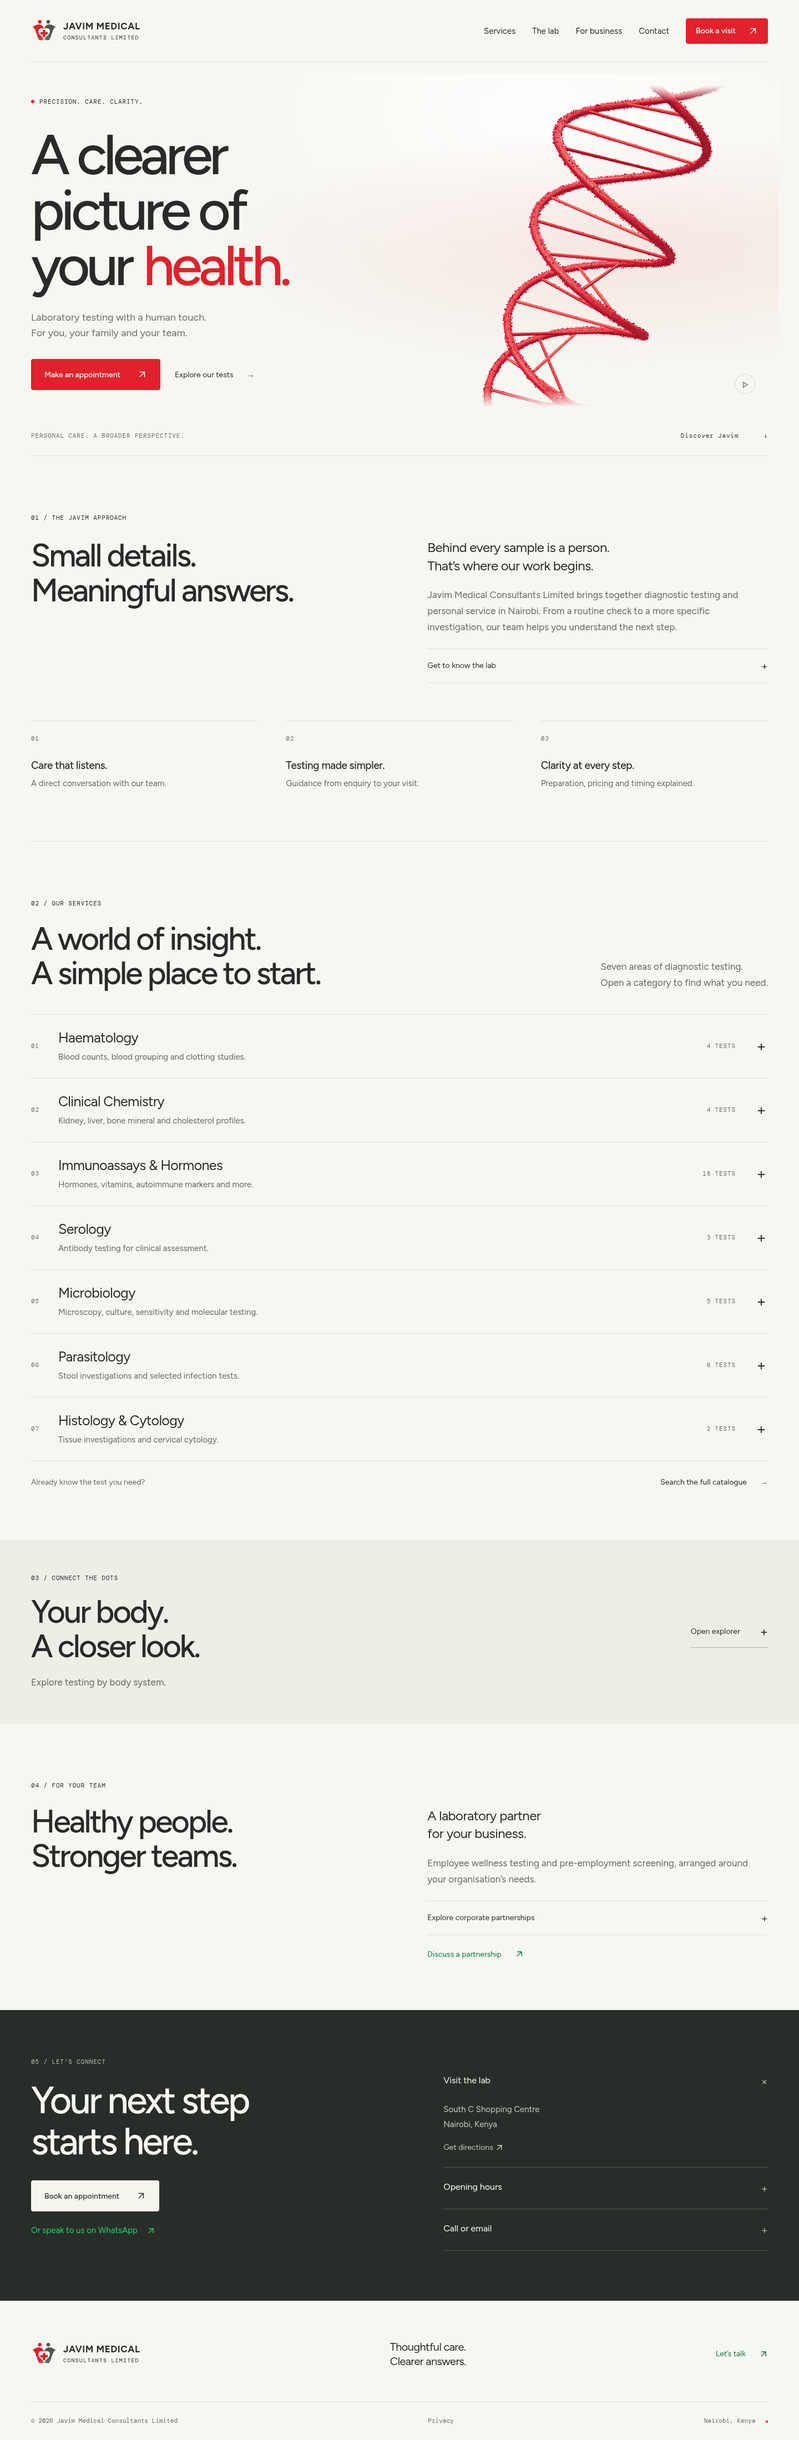
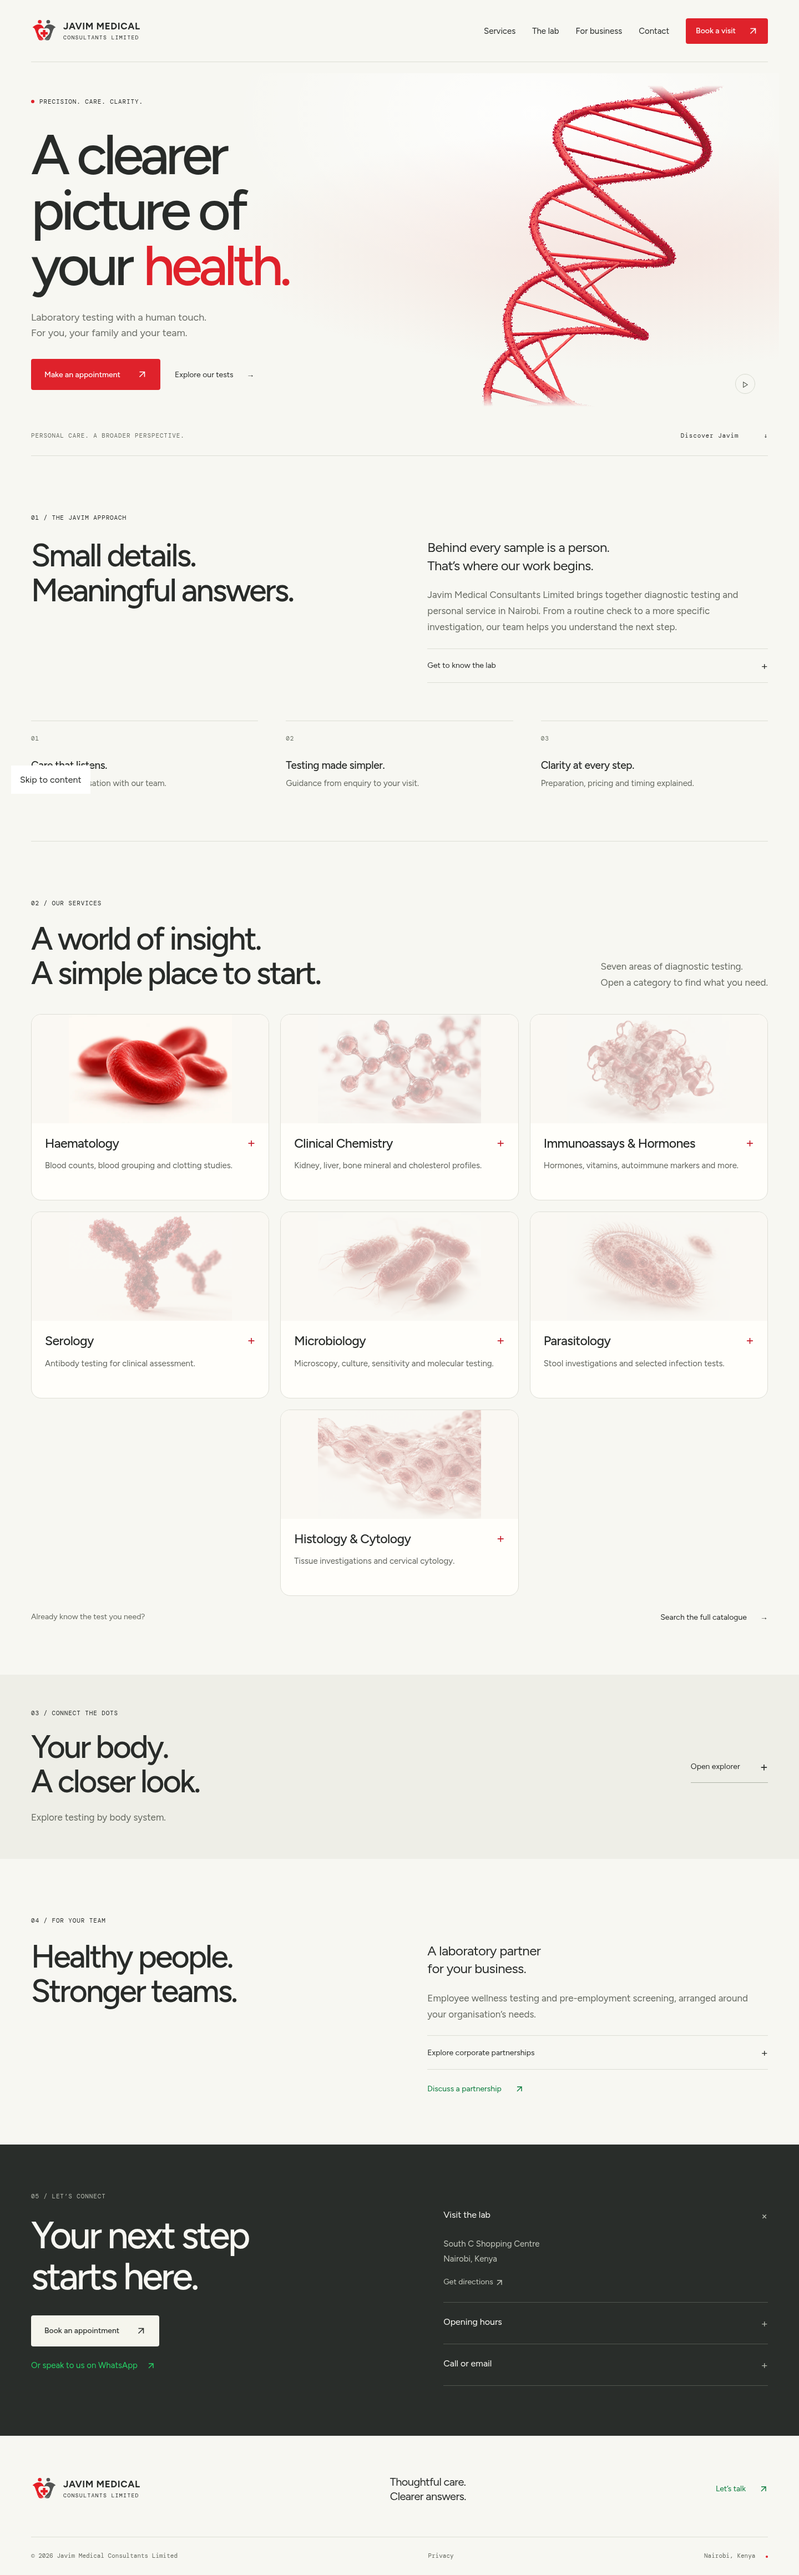
Replace service vectors with coordinated realistic scientific imagery

diff --git a/src/service-art.js b/src/service-art.js
@@ -1,15 +1,6 @@
-// Original abstract vector studies; decorative, not diagnostic imagery.
+// AI-generated conceptual scientific illustrations, not diagnostic micrographs.
+const images = ['haematology','chemistry','immunoassays','serology','microbiology','parasitology','histology'];
 export function serviceArt(index) {
-  const id = `service-art-${index}`;
-  const orb = (x,y,r,extra='') => `<circle cx="${x}" cy="${y}" r="${r}" fill="url(#${id})" ${extra}/>`;
-  const motifs = [
-    [orb(95,100,44),orb(210,65,30),orb(245,155,49),orb(160,187,24)].join('') + '<g fill="none" stroke="#9f1028" stroke-width="9" opacity=".45"><ellipse cx="95" cy="100" rx="22" ry="14"/><ellipse cx="245" cy="155" rx="25" ry="16"/></g>',
-    '<g stroke="#d64a55" stroke-width="3"><path d="m80 160 67-93 90 35 20 90-110 18Z M147 67v143m-67-50 157-58m-90 108 90-108"/></g>'+[[80,160,24],[147,67,31],[237,102,25],[257,192,18],[147,210,22]].map(p=>orb(...p)).join(''),
-    Array.from({length:9},(_,i)=>{const y=30+i*24,x=160+Math.sin(i*.65)*55;return `<path d="M${x} ${y}H${320-x}" stroke="#dc7e83" stroke-width="3"/>${orb(x,y,10)}${orb(320-x,y,10)}`;}).join(''),
-    '<g fill="none" stroke="url(#'+id+')" stroke-width="18" stroke-linecap="round"><path d="m100 65 48 53 47-53m-47 53v86M210 120l28 32 31-32m-31 32v51"/></g>'+orb(100,65,9)+orb(195,65,9),
-    Array.from({length:14},(_,i)=>{const x=57+(i*59)%230,y=45+(i*37)%165;return `<g transform="rotate(${i*31} ${x} ${y})"><rect x="${x-9}" y="${y-21}" width="18" height="42" rx="9" fill="url(#${id})"/></g>`;}).join(''),
-    '<g fill="none" stroke="url(#'+id+')" stroke-width="18" stroke-linecap="round"><path d="M65 177c-40-86 84-131 94-56s-65 103-33 42S254 60 267 135s-60 92-58 51"/></g>'+[orb(90,68,13),orb(252,62,9),orb(180,213,12)].join(''),
-    Array.from({length:16},(_,i)=>{const x=55+(i%4)*69+(Math.floor(i/4)%2)*10,y=35+Math.floor(i/4)*61;return orb(x,y,25)+`<circle cx="${x+3}" cy="${y-2}" r="8" fill="#98182a" opacity=".65"/>`;}).join(''),
-  ];
-  return `<svg class="service-art" viewBox="0 0 340 260" fill="none" aria-hidden="true"><defs><radialGradient id="${id}" cx=".3" cy=".25" r=".8"><stop stop-color="#ff9a91"/><stop offset=".45" stop-color="#e52837"/><stop offset="1" stop-color="#a40f27"/></radialGradient></defs>${motifs[index]}</svg>`;
+  const name = images[index];
+  return `<img class="service-art" src="/assets/services/${name}.webp" srcset="/assets/services/${name}-small.webp 420w, /assets/services/${name}.webp 840w" sizes="(max-width: 600px) calc(100vw - 48px), (max-width: 900px) 45vw, 30vw" width="840" height="560" alt="" loading="lazy" decoding="async">`;
 }

diff --git a/src/style.css b/src/style.css
@@ -105,3 +105,11 @@
 @media(max-width:900px) and (min-width:601px){.service-card-grid{grid-template-columns:repeat(2,minmax(0,1fr))}.service-card:last-child{grid-column:1/-1;width:calc((100% - 20px)/2);justify-self:center}}
 @media(max-width:600px){.service-card-grid{grid-template-columns:1fr;gap:16px}.service-card:last-child{grid-column:auto}.service-card-visual{height:134px;margin-bottom:18px}.service-art{height:145px}.service-card-heading h3{font-size:24px}.service-card summary>p{min-height:0}.service-card>summary{padding-bottom:24px}}
 @media(prefers-reduced-motion:reduce){.service-card,.service-art,.service-card-toggle{transition:none}}
+
+/* Photographic scientific studies: image-only motion, text remains still. */
+.service-card-visual{height:196px;background:#faf8f3}
+.service-art{display:block;width:100%;height:100%;object-fit:contain;opacity:.32;filter:saturate(.7);transform:scale(1);transition:opacity .4s,transform .7s,filter .4s}
+.service-card:hover .service-art,.service-card:focus-within .service-art,.service-card[open] .service-art{opacity:1;filter:saturate(1);transform:scale(1.045)}
+@media(hover:none){.service-art{opacity:1;filter:none;transform:none}.service-card[open] .service-art{transform:none}}
+@media(max-width:600px){.service-card-visual{height:188px}.service-art{height:100%}}
+@media(prefers-reduced-motion:reduce){.service-art{transition:none;transform:none!important}}

diff --git a/tests/browser/service-cards.spec.js b/tests/browser/service-cards.spec.js
@@ -4,6 +4,11 @@ test('service cards disclose previews and link to the complete category',async({
   await page.goto('/');
   const cards=page.locator('.service-card');
   await expect(cards).toHaveCount(7);
+  for(const image of await cards.locator('img.service-art').all()){
+    await image.scrollIntoViewIfNeeded();
+    await expect(image).toHaveJSProperty('complete',true);
+    expect(await image.evaluate(img=>img.naturalWidth)).toBeGreaterThan(0);
+  }
   await expect(cards.locator('.service-card-content:visible')).toHaveCount(0);
   const boxes=await cards.evaluateAll(nodes=>nodes.map(n=>{const b=n.getBoundingClientRect();return {x:b.x,y:b.y,width:b.width};}));
   expect(boxes[0].y).toBe(boxes[2].y);expect(boxes[3].y).toBe(boxes[5].y);expect(boxes[6].x).toBe(boxes[1].x);

diff --git a/README.md b/README.md
@@ -6,7 +6,7 @@ A minimalist, responsive laboratory website built with Vite, vanilla JavaScript 
 
 ### Service discovery cards
 
-Seven expandable categories in a 3–3–1 desktop layout. Opening a category automatically closes the previous one. Hover or keyboard focus reveals original red abstract vector illustrations; tap or click reveals up to three test explanations. Category links open the full catalogue already filtered, retaining all 42 tests. Mobile cards stack and keep the artwork visible; reduced-motion preferences disable transitions.
+Seven expandable categories in a 3–3–1 desktop layout. Opening a category automatically closes the previous one. Hover or keyboard focus reveals coordinated red scientific close-ups; tap or click reveals up to three test explanations. Category links open the full catalogue already filtered, retaining all 42 tests. Mobile cards stack and keep the artwork visible; reduced-motion preferences disable transitions. The seven images are AI-generated conceptual illustrations, not diagnostic micrographs. Responsive, lazy-loaded WebP assets live in `public/assets/services`; the complete two-size set is approximately 500 KB.
 
 ![Seven service cards](docs/screenshots/service-cards.png)
 

diff --git a/public/assets/services/README.md b/public/assets/services/README.md
@@ -1,0 +1,13 @@
+# Service illustrations
+
+Generated with OpenAI image generation for Javim Medical Consultants Limited, October 2026. These are conceptual scientific CGI-style images, not clinical photographs, actual specimens, or diagnostic micrographs. They are decorative on the website; the adjacent text identifies each service.
+
+- haematology: red blood cells
+- chemistry: molecular cluster
+- immunoassays: folded protein
+- serology: antibody-inspired structures
+- microbiology: rod-shaped bacteria
+- parasitology: protozoan-inspired organism
+- histology: tissue and cells
+
+Art direction: crimson red, warm ivory background, soft studio lighting, shallow depth of field and detailed organic surfaces. Responsive WebP sizes: 840 × 560 and 420 × 280. Full-resolution generation originals are retained separately from the website repository.
